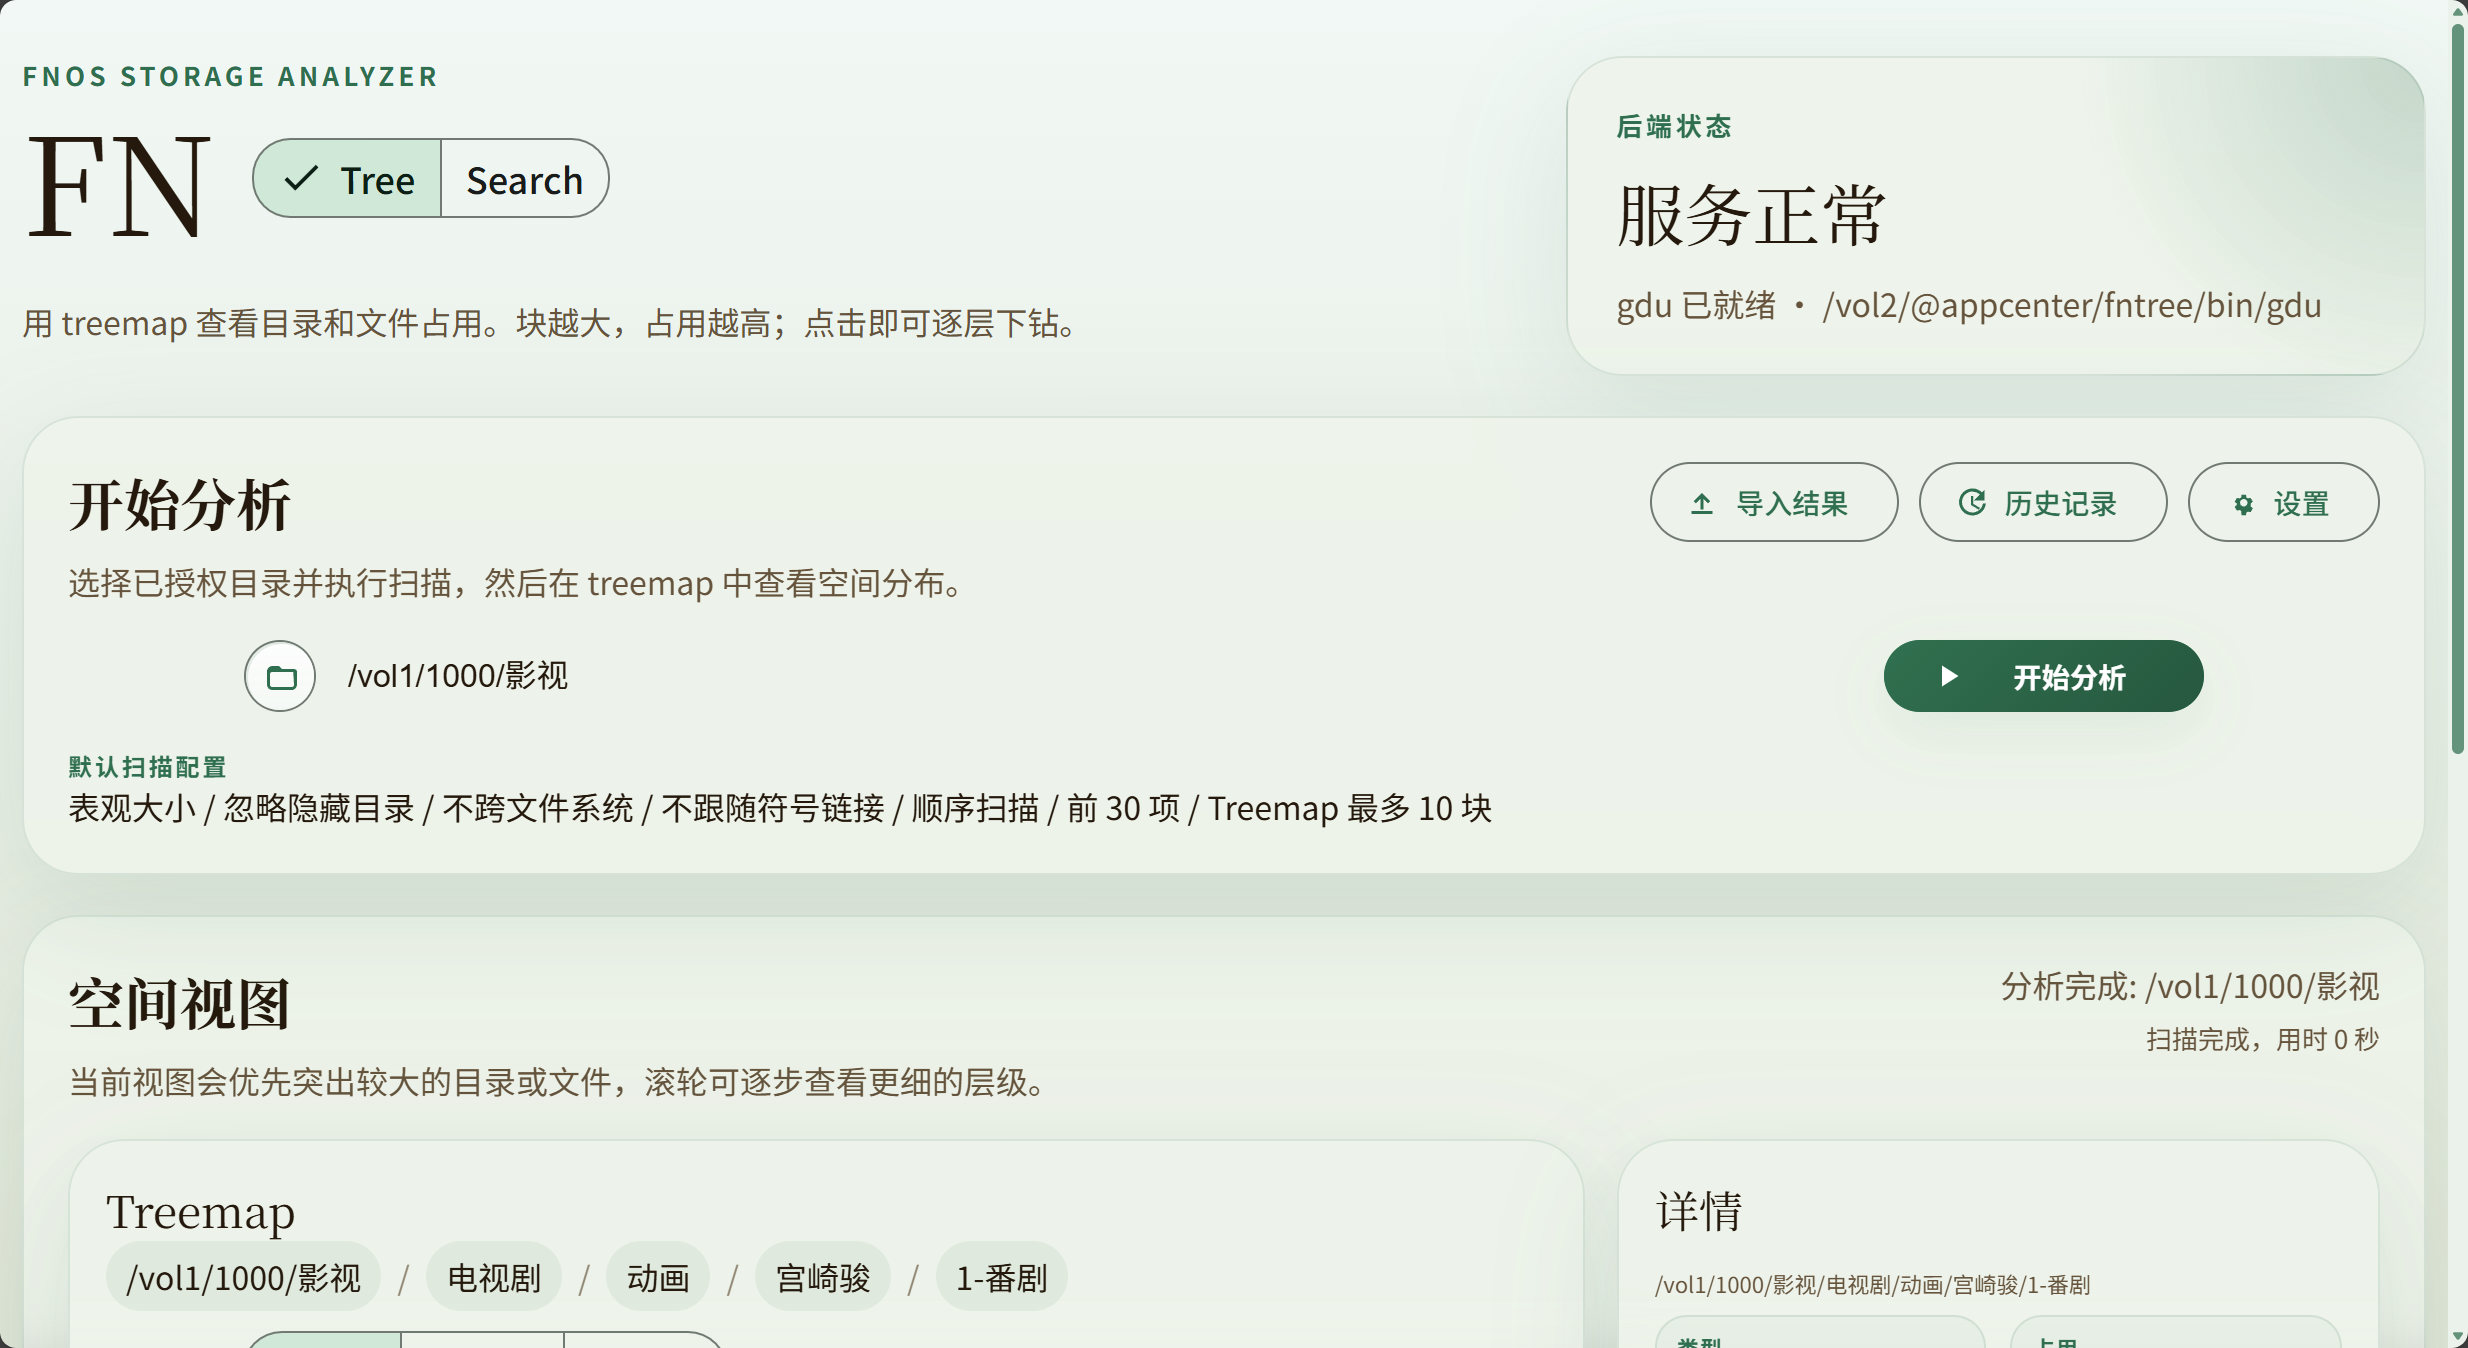
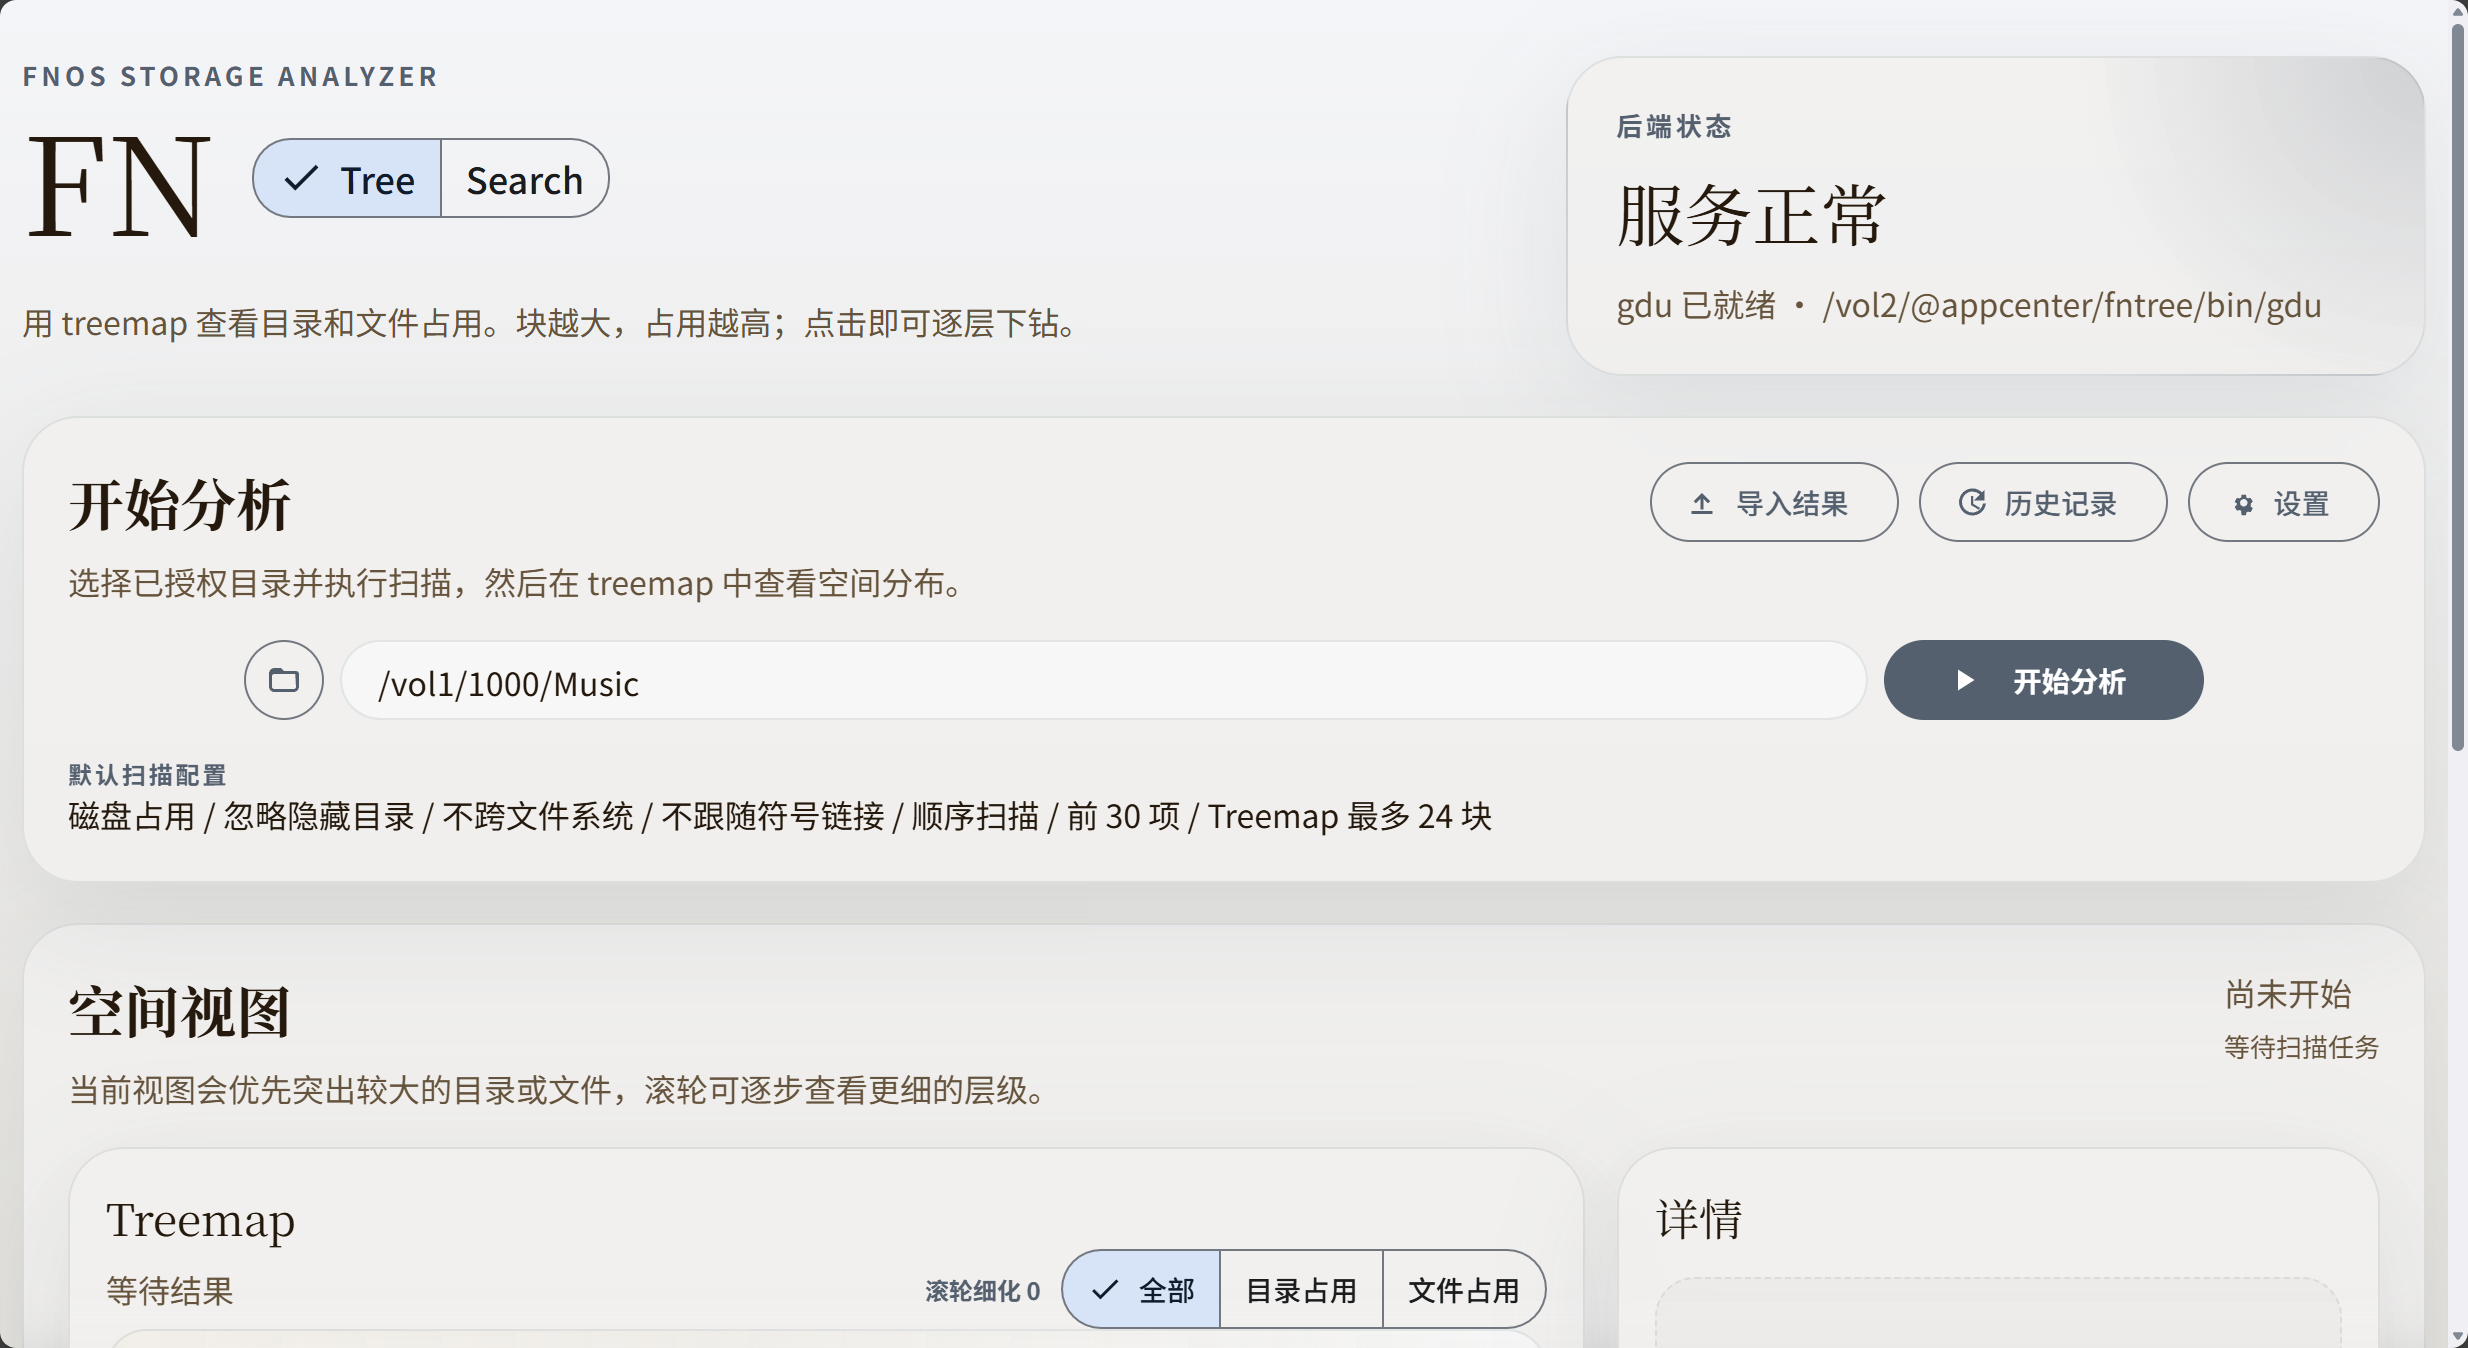
Finalize settings layout and reset project version

diff --git a/.official/fntree/app/ui/settings.js b/.official/fntree/app/ui/settings.js
@@ -15,8 +15,10 @@ const writeCachedSettings = (settings) => {
 const settingTheme = document.getElementById('settingTheme');
 const settingColorScheme = document.getElementById('settingColorScheme');
 const settingScanMode = document.getElementById('settingScanMode');
+const settingsRailTheme = document.getElementById('settingsRailTheme');
 const settingsRailScan = document.getElementById('settingsRailScan');
 const settingsRailSearch = document.getElementById('settingsRailSearch');
+const settingsSectionTheme = document.getElementById('settingsSectionTheme');
 const settingsSectionScan = document.getElementById('settingsSectionScan');
 const settingsSectionSearch = document.getElementById('settingsSectionSearch');
 const settingsBackButton = document.getElementById('settingsBackButton');
@@ -41,7 +43,7 @@ const saveSettingsButton = document.getElementById('saveSettingsButton');
 const settingsStatus = document.getElementById('settingsStatus');
 
 const settingsState = {
-  section: 'scan',
+  section: 'theme',
   returnTarget: 'tree',
   theme: 'cinnamon',
   colorScheme: 'auto',
@@ -55,6 +57,10 @@ const settingsState = {
 
 bootstrap().catch((error) => {
   showError(error.message || '初始化设置页失败');
+});
+
+settingsRailTheme?.addEventListener('click', () => {
+  setActiveSection('theme', { updateUrl: true });
 });
 
 settingsRailScan?.addEventListener('click', () => {
@@ -159,7 +165,8 @@ function hydrateNavigationState() {
   const section = params.get('section');
   const returnTarget = params.get('return');
 
-  settingsState.section = section === 'search' ? 'search' : 'scan';
+  settingsState.section =
+    section === 'search' ? 'search' : section === 'scan' ? 'scan' : 'theme';
   settingsState.returnTarget = returnTarget === 'search' ? 'search' : 'tree';
 
   setActiveSection(settingsState.section, { updateUrl: false });
@@ -167,11 +174,14 @@ function hydrateNavigationState() {
 }
 
 function setActiveSection(section, options = {}) {
-  settingsState.section = section === 'search' ? 'search' : 'scan';
+  settingsState.section =
+    section === 'search' ? 'search' : section === 'scan' ? 'scan' : 'theme';
 
+  settingsSectionTheme?.classList.toggle('is-active', settingsState.section === 'theme');
   settingsSectionScan?.classList.toggle('is-active', settingsState.section === 'scan');
   settingsSectionSearch?.classList.toggle('is-active', settingsState.section === 'search');
 
+  toggleRailItem(settingsRailTheme, settingsState.section === 'theme');
   toggleRailItem(settingsRailScan, settingsState.section === 'scan');
   toggleRailItem(settingsRailSearch, settingsState.section === 'search');
 
@@ -179,7 +189,9 @@ function setActiveSection(section, options = {}) {
     settingsIntro.textContent =
       settingsState.section === 'search'
         ? '集中调整搜索索引、快速搜索和实时搜索的默认行为。'
-        : '集中调整扫描方式、Treemap 和分析默认行为。';
+        : settingsState.section === 'scan'
+          ? '集中调整扫描方式、Treemap 和分析默认行为。'
+          : '集中调整主题色、明暗模式和整体视觉风格。';
   }
 
   if (options.updateUrl !== false) {

diff --git a/.official/fntree/app/ui/settings.html b/.official/fntree/app/ui/settings.html
@@ -30,7 +30,16 @@
 
         <div class="settings-layout">
           <mdui-navigation-rail id="settingsRail" class="settings-rail">
-            <mdui-navigation-rail-item id="settingsRailScan" value="scan" active>
+            <mdui-navigation-rail-item id="settingsRailTheme" value="theme" active>
+              <svg slot="icon" class="rail-inline-icon" viewBox="0 0 24 24" aria-hidden="true">
+                <path
+                  fill="currentColor"
+                  d="M12 3a7 7 0 0 0 0 14a7 7 0 1 0 0-14m0 2a5 5 0 0 1 0 10a5 5 0 0 1 0-10m0-3h2v3h-2zm0 17h2v3h-2zM2 11h3v2H2zm17 0h3v2h-3zM4.93 6.34l1.41-1.41l2.12 2.12l-1.41 1.41zm10.61 10.61l1.41-1.41l2.12 2.12l-1.41 1.41zM15.54 7.05l2.12-2.12l1.41 1.41l-2.12 2.12zM4.93 17.66l2.12-2.12l1.41 1.41l-2.12 2.12z"
+                />
+              </svg>
+              主题设置
+            </mdui-navigation-rail-item>
+            <mdui-navigation-rail-item id="settingsRailScan" value="scan">
               <svg slot="icon" class="rail-inline-icon" viewBox="0 0 24 24" aria-hidden="true">
                 <path
                   fill="currentColor"
@@ -51,7 +60,7 @@
           </mdui-navigation-rail>
 
           <div class="settings-content">
-            <section id="settingsSectionScan" class="settings-section is-active">
+            <section id="settingsSectionTheme" class="settings-section is-active">
               <div class="settings-page-grid">
                 <section class="settings-card settings-card-stack">
                   <span class="settings-label">主题色</span>
@@ -73,7 +82,11 @@
                     <mdui-segmented-button value="dark">深色</mdui-segmented-button>
                   </mdui-segmented-button-group>
                 </section>
+              </div>
+            </section>
 
+            <section id="settingsSectionScan" class="settings-section">
+              <div class="settings-page-grid">
                 <section class="settings-card settings-card-stack">
                   <span class="settings-label">统计方式</span>
                   <span class="settings-help">默认使用磁盘占用。切换为表观大小后，会更接近文件名义大小。</span>

diff --git a/.official/fntree/app/ui/styles.css b/.official/fntree/app/ui/styles.css
@@ -1369,7 +1369,7 @@ h1 {
   display: block;
   flex: 1;
   min-height: 360px;
-  max-height: none;
+  max-height: clamp(360px, 52vh, 560px);
   overflow: auto;
   padding-right: 6px;
 }
@@ -1798,7 +1798,7 @@ h1 {
 
   .search-result-list {
     min-height: 360px;
-    max-height: none;
+    max-height: 460px;
   }
 
   #treemapView {

diff --git a/README.md b/README.md
@@ -1,12 +1,12 @@
 # FN Tree
 
-fnOS 上的磁盘占用分析与文件搜索应用。项目提供 Tree、Treemap、Search 和统一设置页，面向 NAS 场景下的空间排查和文件定位。
+fnOS 上的磁盘占用分析与文件搜索应用，提供 Tree、Treemap、Search 和统一设置页，面向 NAS 场景下的空间排查与文件定位。
 
 ## 功能概览
 
 - Tree 页面：选择已授权目录执行扫描，查看目录层级、详情卡片和 Treemap。
 - Search 页面：在已授权目录内执行快速搜索和实时搜索。
-- Settings 页面：统一管理扫描行为、搜索索引、主题色和明暗模式。
+- Settings 页面：拆分为主题设置、扫描设置、搜索设置三个页面。
 - 深色模式：支持浅色、深色、跟随系统。
 - 搜索范围前缀：
   - `@photos cat`：在当前已选授权目录的 `photos` 子目录内搜索 `cat`
@@ -22,10 +22,6 @@ fnOS 上的磁盘占用分析与文件搜索应用。项目提供 Tree、Treemap
 
 ![Treemap 详情](docs/screenshots/treemap-detail.png)
 
-### Search
-
-![Search 页面](docs/screenshots/search-home.png)
-
 ## 项目结构
 
 ```text
@@ -33,11 +29,14 @@ FNTree-
 |- .official/
 |  \- fntree/
 |     |- app/
+|     |  |- bin/           # gdu / fd 等二进制
 |     |  |- server/        # Node.js 后端
-|     |  |- ui/            # 前端页面、脚本、样式
-|     |  \- bin/           # gdu / fd 等二进制
+|     |  \- ui/            # 前端页面、脚本、样式
+|     |- cmd/              # fnOS 生命周期脚本
+|     |- config/           # 权限与资源声明
+|     |- wizard/           # 安装向导
 |     \- manifest          # fnpack 清单
-|- docs/                   # 截图与补充资料
+|- docs/                   # 截图与设计资料
 |- scripts/                # 辅助脚本
 |- .gitignore
 \- README.md
@@ -77,40 +76,40 @@ FNTree-
 实际应用源码目录：
 
 ```text
-F:\FNTree-\.official\fntree
+.official/fntree
 ```
 
 常改位置：
 
-- 前端：`F:\FNTree-\.official\fntree\app\ui`
-- 后端：`F:\FNTree-\.official\fntree\app\server`
-- 版本清单：`F:\FNTree-\.official\fntree\manifest`
+- 前端：`.official/fntree/app/ui`
+- 后端：`.official/fntree/app/server`
+- 版本清单：`.official/fntree/manifest`
 
 建议流程：
 
 1. 修改前端或后端代码。
 2. 对相关脚本执行 `node --check`。
-3. 进入 `F:\FNTree-\.official\fntree` 执行打包。
+3. 进入 `.official/fntree` 执行打包。
 4. 安装前解包核对包内文件。
 
 ## 打包
 
 ```powershell
-Set-Location F:\FNTree-\.official\fntree
-& F:\FNTree-\.tooling\fnpack.exe build
+Set-Location .official/fntree
+& ../../.tooling/fnpack.exe build
 ```
 
 输出文件：
 
 ```text
-F:\FNTree-\.official\fntree\fntree.fpk
+.official/fntree/fntree.fpk
 ```
 
 注意：
 
 - fnOS 只允许安装更高版本号的程序。
-- 每次生成可安装包前，都需要先递增 `.official/fntree/manifest` 中的 `version`。
-- 仓库根目录下的 `fntree_*.fpk` 仅用于本地安装测试，不应提交到 GitHub。
+- 生成可安装包前，需要先递增 `.official/fntree/manifest` 中的 `version`。
+- 根目录下的 `fntree_*.fpk` 仅用于本地安装测试，不应提交到 GitHub。
 
 ## 使用说明
 
@@ -141,14 +140,14 @@ F:\FNTree-\.official\fntree\fntree.fpk
 
 ## 仓库说明
 
-- 这个仓库以应用源码为主，不包含正式发布流程。
-- `docs/` 中保留页面截图和设计素材。
-- `scripts/` 中保留辅助生成脚本。
-- 临时验证目录、安装包和构建产物都已在 `.gitignore` 中排除。
+- 仓库以应用源码为主，不包含正式发布产物。
+- `docs/` 中保留截图和设计资料。
+- `scripts/` 中保留辅助脚本。
+- 临时验证目录、安装包和构建产物已在 `.gitignore` 中排除。
 
 ## 维护建议
 
-如果要继续维护，建议先从这几处入手：
+如果要继续维护，建议优先阅读：
 
 - `.official/fntree/app/ui/index.html`
 - `.official/fntree/app/ui/styles.css`
